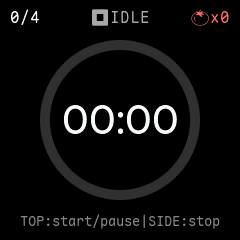
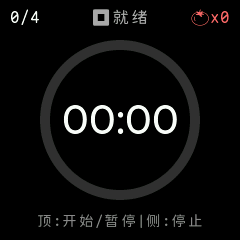
docs: 截图中文化 + 添加 Buddy 庆祝动画 GIF
- 6 张界面截图改为中文版（fake_services 默认 KEY_LANG=ZH）
- main 屏 WiFi 状态用 i18n(STR_WIFI_CONNECTED) 填充
- 新增 capture_buddy_gif：切到 BUDDY 屏 + 设 CELEBRATE + 渲染 16 帧
- 新增 tools/simulator/make_gif.py 用 Pillow 合成 GIF（200ms/帧）
- README 顶部加 buddy-celebrate.gif 展示

Changed region(s): [[0.0875, 0.875, 0.9333, 0.9625], [0.3792, 0.0292, 0.6125, 0.1167]]

diff --git a/tools/simulator/main.c b/tools/simulator/main.c
@@ -33,6 +33,8 @@
 #include "ui/ui_manager.h"
 #include "ui/i18n.h"
 #include "ui/ui_screen_main.h"
+#include "buddy/buddy.h"
+#include "buddy/buddy_render.h"
 
 #include "stb_image_write.h"
 
@@ -186,6 +188,35 @@ static void capture(const char *fname, ui_screen_id_t sid, int settle_ms) {
     }
 }
 
+/* Capture N frames of the buddy screen in CELEBRATE state for GIF assembly.
+ * Each frame advances the animation by ~250ms (same as device's service_task). */
+static void capture_buddy_gif(const char *dir, int frames) {
+    printf("Capturing buddy CELEBRATE gif (%d frames)...\n", frames);
+    sim_set_buddy_state(BUDDY_CELEBRATE);
+    ui_switch_screen(UI_SCREEN_BUDDY);
+    sim_advance_ms(400);
+    char path[256];
+    for (int i = 0; i < frames; i++) {
+        /* advance animation: buddy_tick normally fires every 200ms */
+        buddy_tick();
+        buddy_tick();
+        buddy_tick();
+        buddy_tick();
+        buddy_tick();  /* ~1s of device time per frame */
+
+        reset_framebuffer();
+        lv_obj_invalidate(lv_screen_active());
+        sim_advance_ms(80);
+
+        snprintf(path, sizeof(path), "%s/gif_%03d.png", dir, i);
+        if (!stbi_write_png(path, SCREEN_W, SCREEN_H, 3, s_framebuffer, SCREEN_W * 3)) {
+            fprintf(stderr, "  failed to write %s\n", path);
+        }
+    }
+    printf("  -> %s/gif_*.png (%d frames)\n", dir, frames);
+    sim_set_buddy_state(BUDDY_IDLE);
+}
+
 int main(int argc, char **argv) {
     (void)argc; (void)argv;
 
@@ -209,7 +240,7 @@ int main(int argc, char **argv) {
 
     /* Populate runtime data on main screen (time + WiFi status) so the
      * capture isn't just empty labels. */
-    ui_screen_main_update_wifi_status("● Connected", 0x00FF00);
+    ui_screen_main_update_wifi_status(i18n(STR_WIFI_CONNECTED), 0x00FF00);
     ui_screen_main_update_time();
 
     const char *out_dir = "tools/simulator/output";
@@ -234,6 +265,11 @@ int main(int argc, char **argv) {
 
     snprintf(path, sizeof(path), "%s/06-settings-system.png", out_dir);
     capture(path, UI_SCREEN_SETTINGS_SYSTEM, 300);
+
+    /* buddy CELEBRATE animation frames for GIF */
+    snprintf(path, sizeof(path), "%s/gif_frames", out_dir);
+    SIM_MKDIR(path);
+    capture_buddy_gif(path, 16);
 
     printf("Done.\n");
     return 0;

diff --git a/tools/simulator/make_gif.py b/tools/simulator/make_gif.py
@@ -1,0 +1,48 @@
+"""把 simulator 输出的多帧 PNG 合成 GIF。
+
+用法（在项目根目录）：
+    uv run --with pillow tools/simulator/make_gif.py
+"""
+import os
+import sys
+from PIL import Image
+
+ROOT = os.path.dirname(os.path.dirname(os.path.dirname(os.path.abspath(__file__))))
+FRAMES_DIR = os.path.join(ROOT, "tools", "simulator", "output", "gif_frames")
+OUT_GIF = os.path.join(ROOT, "docs", "images", "buddy-celebrate.gif")
+
+FRAME_COUNT = 16
+DURATION_MS = 200
+SCALE = 2  # 240 -> 480 for clearer preview
+
+
+def main():
+    if not os.path.isdir(FRAMES_DIR):
+        sys.exit(f"frames dir not found: {FRAMES_DIR}\nrun sim.exe first")
+
+    files = sorted(f for f in os.listdir(FRAMES_DIR) if f.endswith(".png"))[:FRAME_COUNT]
+    if not files:
+        sys.exit("no PNG frames")
+
+    print(f"Loading {len(files)} frames from {FRAMES_DIR}")
+    frames = []
+    for f in files:
+        im = Image.open(os.path.join(FRAMES_DIR, f)).convert("P", palette=Image.ADAPTIVE, colors=255)
+        if SCALE != 1:
+            im = im.resize((240 * SCALE, 240 * SCALE), Image.NEAREST)
+        frames.append(im)
+
+    os.makedirs(os.path.dirname(OUT_GIF), exist_ok=True)
+    frames[0].save(
+        OUT_GIF,
+        save_all=True,
+        append_images=frames[1:],
+        duration=DURATION_MS,
+        loop=0,
+        disposal=2,
+    )
+    print(f"Wrote {OUT_GIF}  ({os.path.getsize(OUT_GIF)} bytes, {len(frames)} frames, {DURATION_MS}ms/frame)")
+
+
+if __name__ == "__main__":
+    main()

diff --git a/tools/simulator/fake/fake_services.c b/tools/simulator/fake/fake_services.c
@@ -66,9 +66,18 @@ bool storage_load_string(const char *ns, const char *key, char *value, size_t le
     return false;
 }
 
-bool storage_save_int(const char *ns, const char *key, int32_t value) { (void)ns; (void)key; (void)value; return true; }
+bool storage_save_int(const char *ns, const char *key, int32_t value) {
+    (void)ns; (void)key; (void)value;
+    return true;
+}
+
 bool storage_load_int(const char *ns, const char *key, int32_t *value) {
-    (void)ns; (void)key;
+    (void)ns;
+    /* Default to Chinese for screenshot generation */
+    if (strcmp(key, KEY_LANG) == 0) {
+        if (value) *value = 1;  /* LANG_ZH */
+        return true;
+    }
     if (value) *value = 0;
     return false;
 }

diff --git a/README.md b/README.md
@@ -31,6 +31,14 @@
 
 > 截图由 `tools/simulator/` 的 PC LVGL 模拟器（MinGW GCC + LVGL v9.5 离屏渲染）生成，与设备显示一致。生成方法见 [PC 模拟器](#pc-模拟器)。
 
+### Buddy 庆祝动画
+
+任务批准后 Buddy 会切换到 CELEBRATE 状态做庆祝动作（不同物种有不同动画）：
+
+<p align="center">
+  <img src="docs/images/buddy-celebrate.gif" alt="Buddy 庆祝动画" width="240"/>
+</p>
+
 ## 功能特性
 
 ### 番茄钟
